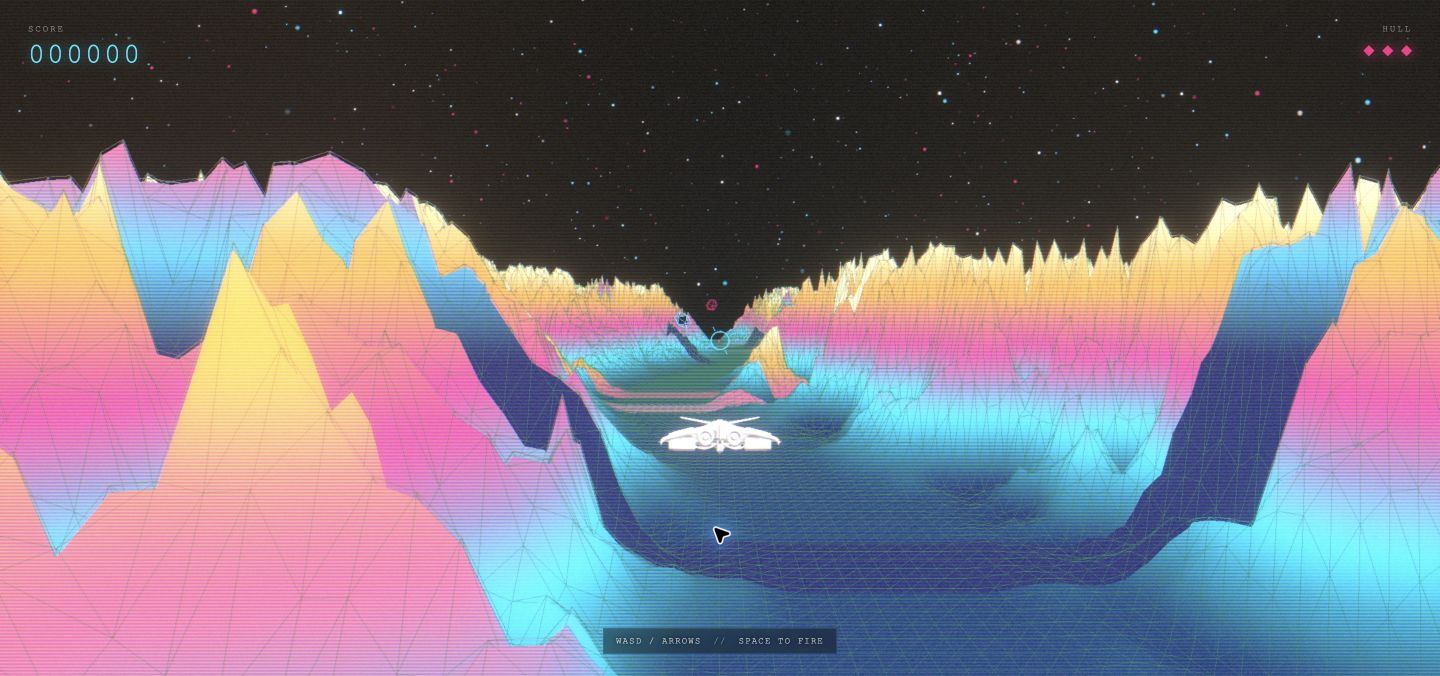
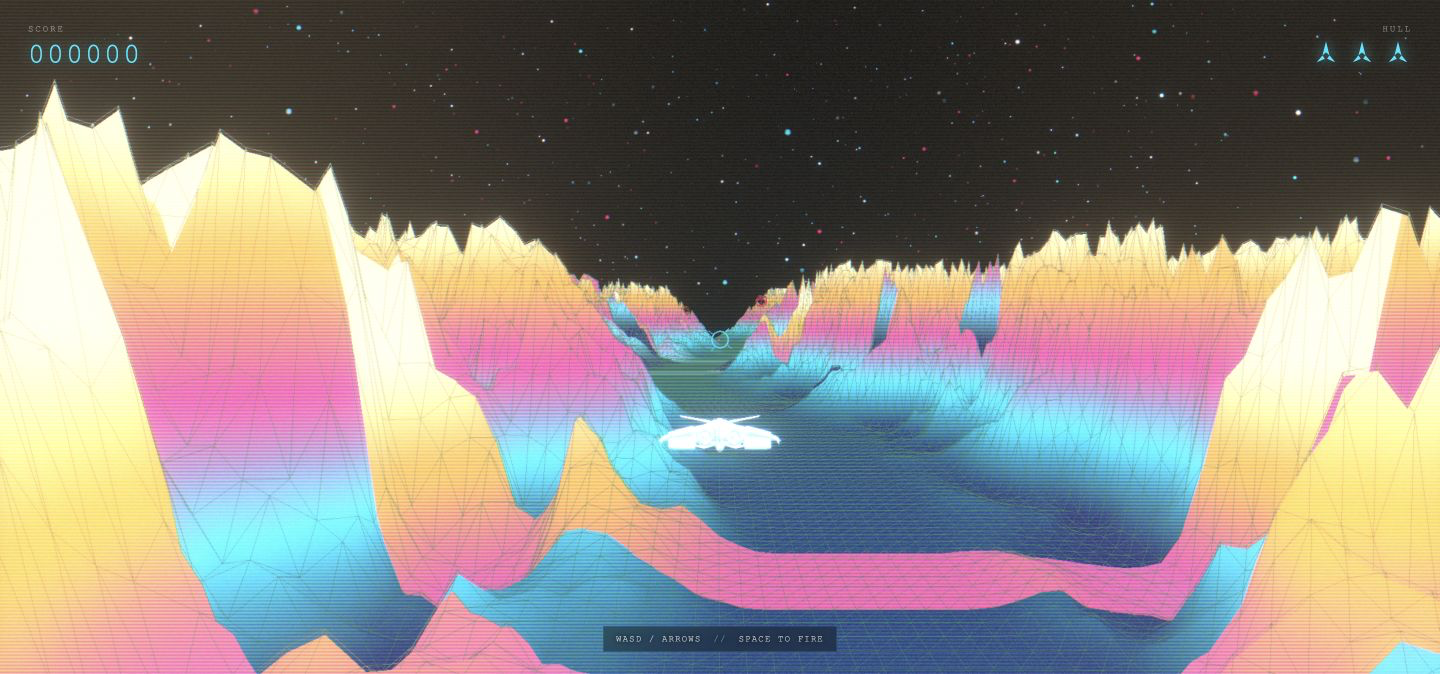
docs: update features and setup with refreshed screenshots

diff --git a/README.md b/README.md
@@ -5,7 +5,7 @@
 **Enter the signal. Survive the void.**
 
 A browser-based 3D arcade shooter set above a shifting neon landscape.
-Built with React, Three.js, and custom GLSL shaders.
+Built with React, Three.js, custom GLSL shaders, and a MongoDB-backed leaderboard.
 
 [**Play the live demo →**](https://glitch-void-zero.vercel.app/) · [Source code](https://github.com/Dsaar/Glitch-Void-Zero)
 
@@ -16,29 +16,31 @@ Built with React, Three.js, and custom GLSL shaders.
 
 </div>
 
-![Glitch Void Zero title screen with neon wireframe mountains and the Start Mission button](docs/screenshots/title-screen.png)
+![Glitch Void Zero title screen with neon terrain, Start Mission button, and shared high scores](docs/screenshots/title-screen.png)
 
 ## Overview
 
 Glitch Void Zero combines arcade survival gameplay with a retro digital aesthetic. Pilot a spaceship through a procedural landscape, destroy incoming enemies, and collect power-ups as the pace increases. Bloom, chromatic aberration, scanlines, and animated terrain give the world its glitch-inspired character.
 
-The project brings together real-time 3D rendering, physics-based collision detection, responsive game UI, and custom shader programming in a single React application.
+The project brings together real-time 3D rendering, physics-based collision detection, responsive game UI, and custom shader programming with a Node.js API for persistent high scores shared across browsers and devices.
 
 ## Features
 
 - **3D arcade combat** — steer a GLB spaceship, aim with an on-screen reticle, and fire projectiles at incoming enemies.
+- **Neon spaceship** — a cyan emissive tint makes the ship glow through the existing bloom effect while retaining its base textures.
+- **Shared high scores** — a MongoDB-backed top-ten leaderboard appears on the title and game-over screens, with callsign submission after each mission.
 - **Escalating difficulty** — enemies move faster and spawn more frequently as a run progresses.
 - **Power-up pickups** — collect rapid fire, a speed boost, or a shield from defeated enemies.
 - **Procedural neon terrain** — custom vertex and fragment shaders animate a landscape with solid and wireframe layers.
 - **CRT-inspired effects** — bloom, RGB separation, scanlines, and digital grain respond to the evolving glitch state.
 - **Desktop and touch input** — keyboard controls on desktop; a virtual joystick and dedicated fire button on touch devices.
-- **Complete mission loop** — title screen, live score and hull indicators, power-up HUD, game-over screen, and instant restart.
+- **Complete mission loop** — title screen, live score and ship-shaped hull indicators, power-up HUD, callsign entry, score submission feedback, and instant restart.
 
 ## Gameplay
 
-![Live gameplay showing the player spaceship, approaching enemies, aiming reticle, score, and hull indicators](docs/screenshots/gameplay.png)
+![Live gameplay showing the cyan emissive spaceship, aiming reticle, score, and ship-shaped hull indicators](docs/screenshots/gameplay.png)
 
-*Screenshots captured from the [live demo](https://glitch-void-zero.vercel.app/).*
+*Screenshots refreshed from the [live demo](https://glitch-void-zero.vercel.app/) on September 14, 2026. Leaderboard entries reflect the scores visible at capture time.*
 
 Select **Start Mission**, line up incoming targets, and survive for as long as you can. Each destroyed enemy earns **100 points**. You begin with **three lives**; losing all three ends the mission. Enemy speed and spawn frequency increase over time.
 
@@ -53,6 +55,12 @@ Select **Start Mission**, line up incoming targets, and survive for as long as y
 | Rapid fire | Increases firing rate for 10 seconds |
 | Speed boost | Increases movement speed for 10 seconds |
 | Shield | Absorbs one enemy collision |
+
+### Record your score
+
+![Game-over screen with callsign entry, Transmit Score, shared high scores, and Restart Mission](docs/screenshots/game-over.png)
+
+After a mission ends, enter a **1–3 character callsign** using letters or digits and select **Transmit Score**. Callsigns are normalized to uppercase. A successful submission is stored in MongoDB; the leaderboard displays the ten highest scores, with earlier submissions first when scores tie. Loading, saving, and failure states appear in the UI, and failed requests can be retried.
 
 ## Technical highlights
 
@@ -70,7 +78,18 @@ Rapier kinematic bodies and sensor colliders handle gameplay intersections. Proj
 
 ### Assets and input
 
-[ShipModel.jsx](src/components/game/ShipModel.jsx) preloads the spaceship model, centers it using its bounding box, and normalizes its scale. Keyboard and pointer input feed the same player controller, with touch controls displayed when a touch device is detected.
+[ShipModel.jsx](src/components/game/ShipModel.jsx) preloads the spaceship model, centers it using its bounding box, and normalizes its scale. It clones the materials before applying cyan emission (`#00e5ff`, intensity `1.5`), preserving the cached GLB and its base textures. `SHIP_GLOW_COLOR` and `SHIP_GLOW_INTENSITY` control the tint and strength. Keyboard and pointer input feed the same player controller, with touch controls displayed when a touch device is detected.
+
+### Persistent leaderboard
+
+[Leaderboard.jsx](src/components/game/Leaderboard.jsx) renders rankings and loading/error states. [leaderboardStorage.js](src/components/game/leaderboardStorage.js) now requests the shared API instead of browser-local storage. [server/leaderboard.js](server/leaderboard.js) validates submissions, while [server/mongodb.js](server/mongodb.js) reuses a database connection and creates the ranking index on first use.
+
+| Endpoint | Behavior |
+| --- | --- |
+| `GET /api/leaderboard` | Returns up to ten entries ordered by score descending, then submission time and ID ascending |
+| `POST /api/leaderboard` | Accepts JSON `{ "name": "ACE", "score": 1200 }`; returns `201` with `{ "saved": true }` |
+
+The API accepts 1–3 alphanumeric callsign characters and nonnegative safe-integer scores, limits request bodies to 1 KB, and reports unavailable database connections with `503`. Vite serves the endpoint during development and preview; [api/leaderboard.js](api/leaderboard.js) exposes it as a Vercel function in production.
 
 ## Tech stack
 
@@ -85,7 +104,9 @@ Rapier kinematic bodies and sensor colliders handle gameplay intersections. Proj
 | Zustand | Shared game state |
 | Vite 8 | Development server and production bundling |
 | ESLint | Static code analysis |
-| Vercel | Live demo hosting |
+| MongoDB + Node.js driver | Persistent shared leaderboard and ranking index |
+| Node.js | Leaderboard API and built-in test runner |
+| Vercel | Frontend hosting and serverless leaderboard endpoint |
 
 ## Run locally
 
@@ -95,8 +116,17 @@ Rapier kinematic bodies and sensor colliders handle gameplay intersections. Proj
 git clone https://github.com/Dsaar/Glitch-Void-Zero.git
 cd Glitch-Void-Zero
 npm ci
-cp .env.example .env
-# Fill in MONGODB_URI in .env before starting.
+```
+
+Create a `.env` file in the project root with your server-side MongoDB connection string. For example, for a local database:
+
+```dotenv
+MONGODB_URI=mongodb://127.0.0.1:27017/glitch_void_zero
+```
+
+Then start the app:
+
+```bash
 npm run dev
 ```
 
@@ -105,11 +135,11 @@ Open the local URL printed by Vite. Vite also serves `/api/leaderboard` locally 
 ### MongoDB leaderboard setup
 
 1. Create a MongoDB database, locally or on Atlas. For Atlas, create a database user and allow your development/deployment server to connect through the cluster network access settings.
-2. Replace the placeholders in `.env`: `MONGODB_URI` is your connection string. Include the database name in its path (for example, `/glitch_void_zero?retryWrites=true&w=majority`); if omitted, the server uses `glitch_void_zero`. URL-encode special characters in the connection-string username/password.
+2. Configure `.env`: `MONGODB_URI` is your connection string. Include the database name in its path (for example, `/glitch_void_zero?retryWrites=true&w=majority`); if omitted, the server uses `glitch_void_zero`. URL-encode special characters in the connection-string username/password.
 3. The server creates the `leaderboard` collection and ranking index on first use. The database user needs permissions to read, insert, and create indexes in that database.
 4. For Vercel, add `MONGODB_URI` in the project's environment settings for the appropriate environments, then redeploy. The `api/leaderboard.js` function serves the same endpoint in production. A static-only host needs a Node backend to serve this endpoint.
 
-`.env` is ignored by Git; `.env.example` contains shareable placeholders. Never use the `VITE_` prefix for MongoDB credentials: that would expose them to the browser.
+`.env` is ignored by Git. Keep real connection strings out of source control and documentation. Never use the `VITE_` prefix for MongoDB credentials: that would expose them to the browser.
 
 Scores are stored centrally and the ten highest scores are displayed, with earlier submissions first for ties. Existing browser-local scores are not migrated. Loading or database failures appear in the UI; failed saves can be retried. The API validates callsigns and scores, but scores are still supplied by the browser; this is not an anti-cheat system. A timed-out save may already have reached the database, so retrying can create a duplicate.
 
@@ -136,6 +166,11 @@ npm run preview
 
 ```text
 Glitch-Void-Zero/
+├── api/leaderboard.js          # Vercel leaderboard function
+├── server/
+│   ├── leaderboard.js          # API validation and ranking queries
+│   ├── mongodb.js              # Database connection and index
+│   └── leaderboard.test.js     # API tests
 ├── docs/screenshots/           # README captures from the live app
 ├── public/
 │   └── models/                # Spaceship GLB asset
